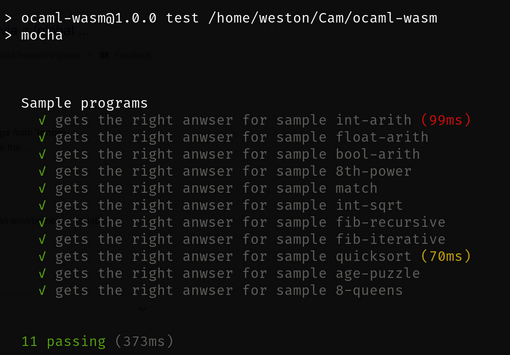
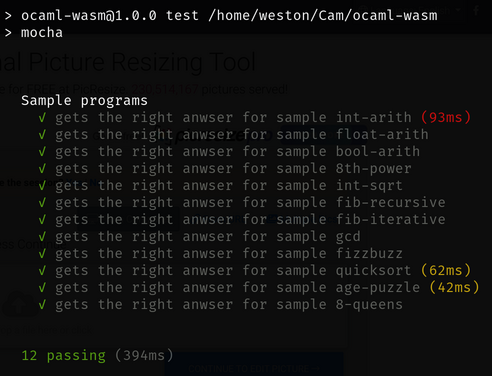
Write methodology section of evaluation

Changed region(s): [[0.0305, 0.2479, 0.9756, 0.8366], [0.0, 0.0, 0.8841, 0.1239], [0.0305, 0.9296, 0.3659, 0.9915]]

diff --git a/docs/diss.tex b/docs/diss.tex
@@ -9,6 +9,7 @@
 \usepackage{mwe}
 \usepackage{float}
 \usepackage{enumerate}
+\usepackage{multicol}
 
 \graphicspath{ {images/} }
 
@@ -19,6 +20,7 @@
 \setlength{\parindent}{0em}
 \setlength{\parskip}{1em}
 
+\newcommand{\JSofOCaml}{{\tt JS\_of\_OCaml} }
 \renewcommand{\baselinestretch}{1.1}    % adjust line spacing to make
                                         % more readable
 
@@ -293,7 +295,7 @@ Another benefit of having tests before you start coding is that you know you've 
 There's also the obvious benefit that you end up with lots of tests that are not just an afterthought, but can play an active part in the development process.
 
 For these reasons, I started my project by writing the sample OCaml programs described above, adding tests for the expected output, and setting up automated end-to-end testing using the JavaScript test framework Mocha.
-Having these sample programs was also invaluable for evaluating the compiler against JavaScript versions of the same programs and against the JS\_of\_OCaml compiled versions.
+Having these sample programs was also invaluable for evaluating the compiler against JavaScript versions of the same programs and against the \JSofOCaml compiled versions.
 I started the project by writing smaller unit tests for the parser and code generator, but did not keep up with this formal testing through development.
 
 \subsection{Kanban Organizational Technique}
@@ -556,15 +558,72 @@ This addition to the environment is also reflected in the {\tt ctx} and {\tt dep
 Whenever a closure of a recursive function is created, we just allocate an extra node on its environment list with the function's index in the funcref table.
 This addition of an extra variable lets us have single-recursive functions (our subset of OCaml does not include mutual-recursion, although it would be possibly by adding multiple entries to the environment).
 
-\section{A Worked Example}
-
 \chapter{Evaluation}
 
-TODO
+Does the compiler really work?
+How do programs compiled by my compiler compare to alternatives for writing the same program?
+In this chapter, we aim to answer these questions by first detailing the methods used to evaluate the compiler.
+Then, we will analyse the data produced by our experiments.
+Finally, we will synthesize these results to answer the question: did this project meet it's success criteria?
+
+\section{Evaluation Methods}
+At a high level, we will evaluate the compiler by writing OCaml programs, compiling them, and testing the  correctness and performance of the resulting WebAssembly.
+\subsection{Extended Sample Programs}
+The sample programs described in the project proposal and preparation chapter were used as end-to-end tests of the compiler.
+In order to test the compiler more thoroughly and better isolate behaviors, an additional 7 sample programs were developed.
+\begin{multicols}{3}
+\begin{itemize}
+\itemsep-.2em
+\item Int Arithmetic
+\item Float Arithmetic
+\item Boolean Arithmetic
+\item 8-th Power
+\item Factorial
+\item Recursive Fibonacci
+\item Iterative Fibonacci
+\item Integer Square Root
+\item Euclid's Algorithm
+\item FizzBuzz
+\item Quicksort
+\item N-Queens
+\end{itemize}
+\end{multicols}
+
+\subsection{9 Performance Programs}
+In addition to end-to-end testing the compiler for correctness, we will evaluate the compiler by comparing it to two alternatives methods of executing an OCaml program on the web.
+The two alternatives are to compile the OCaml to JavaScript using the \JSofOCaml tool or to handwrite a JavaScript version matching the OCaml.
+\JSofOCaml works by taking bytecode produced by a full OCaml compiler and translating that bytecode into JavaScript.
+Because the code is first compiled by the OCaml compiler, we can expect optimizations like tail-call optimizations to be applied.
+Even with optimizations, I would expect idiomatic, handwritten JavaScript to outperform this generated JS.
+Both compilers will benefit from JavaScript optimizations done by the V8 engine as it JIT compiles our code.
+
+We will use 3 programs to compare the different methods: recursive Fibonacci, iterative Fibonacci, and Quicksort.
+By recursive Fibonacci, I mean the top down translation of the formula $fib(n) = fib(n-1) + fib(n - 2)$ as opposed to the iterative implementation which computes Fibonacci numbers up to the target.
+The recursive implementation is meant to be inefficient and doesn't include any memoization to improve the complexity.
+Also, by when I say iterative Fibonacci, the solution is still uses recursion (imperative loops have not been implemented), I just mean that it's tail recursive and computes Fibonacci numbers bottom up.
+The quicksort implementation is also no frills quicksort using the first element as the pivot and without augmentations like in-place quicksort.
+The JavaScript version is made to resemble as closely as possible the OCaml version, except that it uses builtin JS arrays (but it does not modify them).
+
+These programs were chosen to each have a different time complexity with recursive Fibonacci being $O(2^n)$, iterative Fibonacci being $O(n)$, and Quicksort being $O(n\log{}n)$.
+There will be 9 programs in total, solving the 3 problems using each of the compilers.
+
+\subsection{Timing the Programs}
+In order to gather our data, we need to time programs in each of the 3 different styles.
+This proved harder than initially thought because it's important that only the runtime of the functions are included and not setup and teardown that happens around that execution.
+For both the Wasm execution and the handwritten JavaScript version, we were able to use JavaScript's performance timer which gives timings in nanoseconds.
+However, for the \JSofOCaml version, we can only access the OCaml timing functions, which only give us millisecond precision.
+Normally, it wouldn't be a problem because we could use milliseconds for both, however the timing programs all execute in about 1-5 milliseconds.
+The source of the problem is that my WebAssembly compiler doesn't do any garbage collection, and additionally every function call allocates a new node on the environment list for a functions parameter.
+So, without any optimizations such as tail-call optimizations, programs processing large inputs end up filling up memory quite quickly.
+For this reason, we can't just run the tests on larger inputs to get longer times, and must deal with the low-precision millisecond timings for the \JSofOCaml tests.
+
+\section{Results}
+
+\section{Success Criteria}
 
 \chapter{Conclusion}
 
-TODO
+
 
 %%%%%%%%%%%%%%%%%%%%%%%%%%%%%%%%%%%%%%%%%%%%%%%%%%%%%%%%%%%%%%%%%%%%%
 % the bibliography

diff --git a/docs/outline.md b/docs/outline.md
@@ -71,6 +71,8 @@
     - docs
     - dist
     - app.js
+- What has been implemented
+- What has NOT been implemented
 ### Parsing
 - [x] The general grammar
    - [x] ambiguous expr v1
@@ -106,6 +108,30 @@
 - Give the results
 - Compare with the success criteria
 - Interpret what the results teach us
+
+### Evaluation methods
+- [x] Extended Sample programs
+- [x] 3 programs to evaluate timing
+    - [x] fib iterative
+    - [x] fib recursive
+    - [x] quicksort
+        - [x] no frills, not fancy or in-place
+        - [x] JS version will not be as fast as collections sort
+- [x] Problems timing OCaml programs
+   - [x] Memory concerns
+### Timing results
+- [ ] fibonacci iterative
+   - [ ] floating point jump (JS bad (jk I love JS))
+   - [ ] trend line
+- [ ] fibonacci recursive
+    - [ ] limitations in range
+    - [ ] exponential shape
+- [ ] quicksort
+    - [ ] about a linearathmetic shape
+    - [ ] wasm_of_ocaml clearly beats js_of_ocaml and gets similar performance to JIT optimized JS
+### Success Criteria
+- [ ] mocha test results
+- [ ] timing results match expected
 
 ## Conclusion
 (notes):
